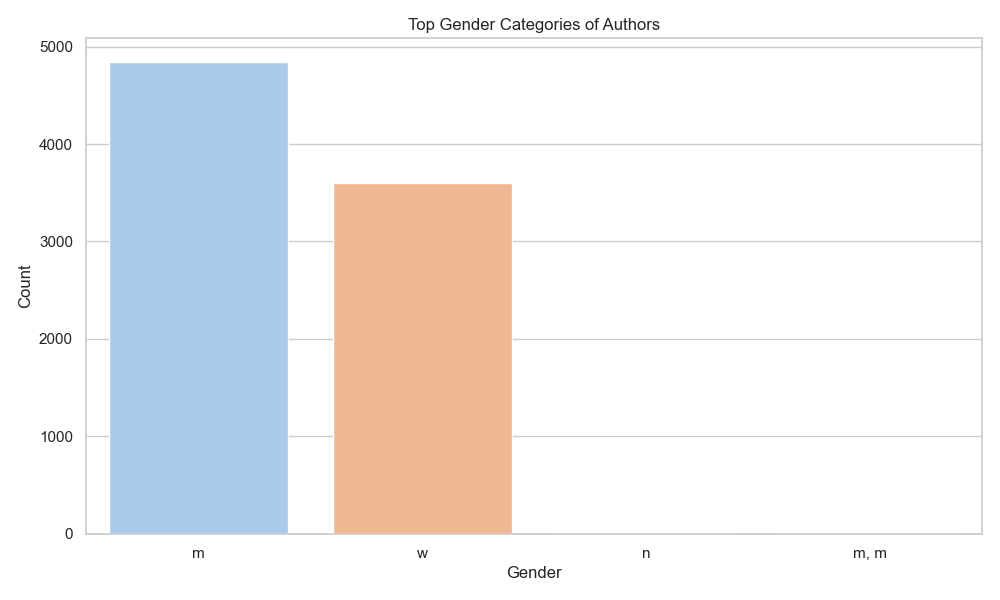
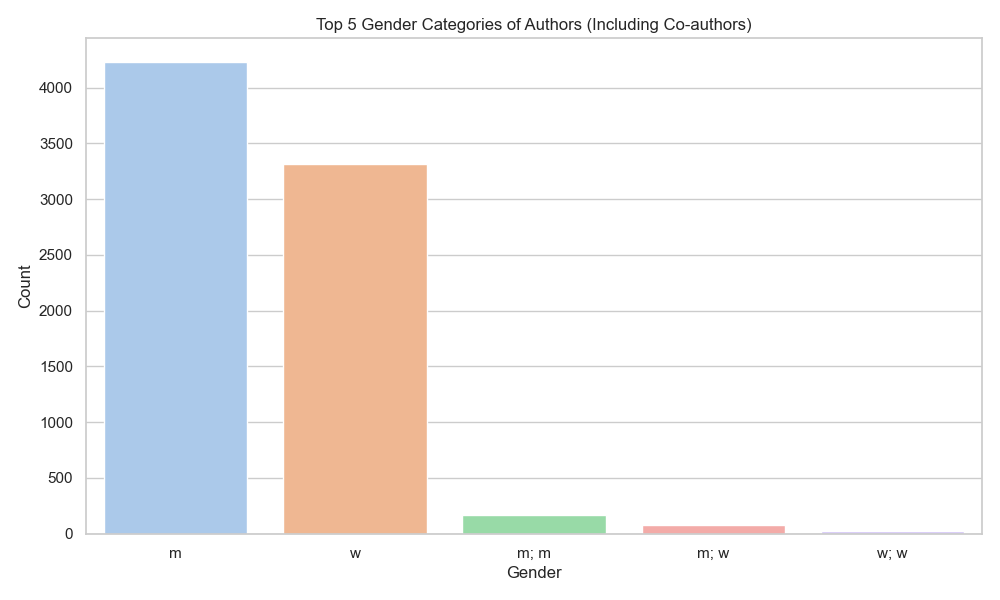
docs: Clarify gender co-authorship representation in the EDA report and update the gender distribution image.

diff --git a/eda_report.md b/eda_report.md
@@ -18,9 +18,11 @@ The dataset is largely complete, with only a few missing values:
 - `publication_country`: 23 missing
 
 ## Dealing with Co-Authorship 
-In the raw dataset, books written by multiple co-authors have their individual genders and nationalities joined together by a semicolon (for example, `m; w` or `Sweden; Sweden`). This led to mixed demographic categories in the initial visualization. 
+In the raw dataset, books written by multiple co-authors have their individual genders and nationalities joined together by a semicolon (for example, `m; w` or `Sweden; Sweden`). 
 
-To provide a more accurate evaluation of author representation, the data for **Gender** and **Nationality** has been cleaned: entries with multiple authors have been _exploded_ (split) so each individual author is mapped to the final totals, giving us the true demographic distribution.
+Because of this, the **Gender Distribution** chart displays these combinations to show the representation of different author teams (e.g. `m; m` for two men, or `m; w` for mixed).
+
+However, to provide a more accurate evaluation of geographic representation, the data for **Nationality** has been cleaned: entries with multiple authors have been _exploded_ (split) so each individual author is mapped to the final totals, giving us the actual geographic demographic distribution.
 
 ## Unique Entities
 - **Unique Authors:** 1902
